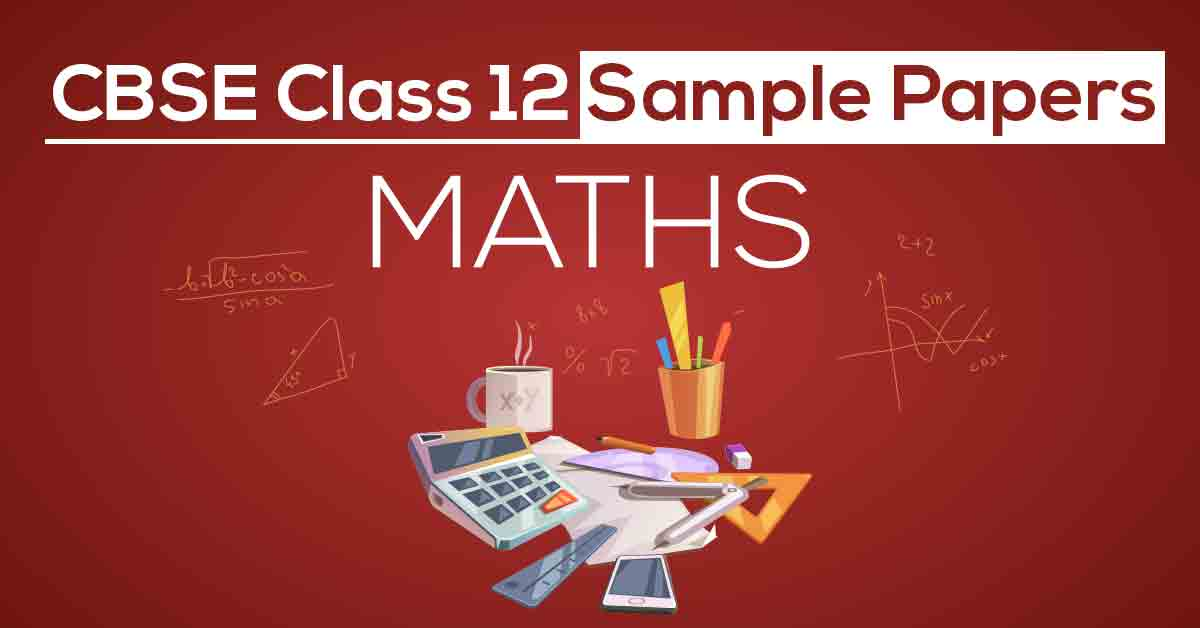
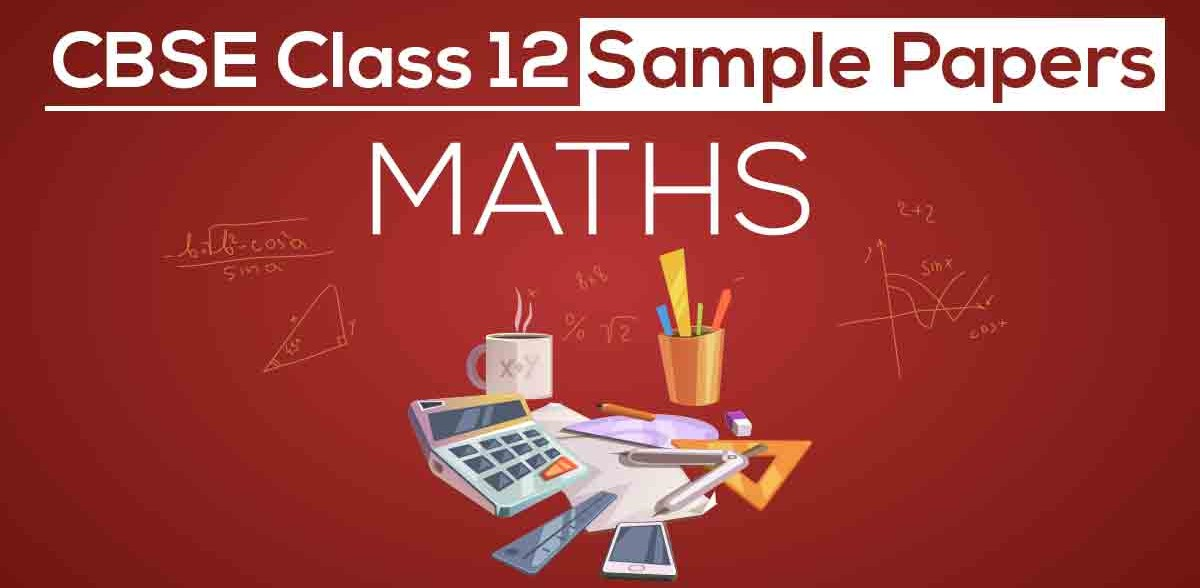
new updates

diff --git a/css/maths12.css b/css/maths12.css
@@ -5,7 +5,7 @@ body {
 }
 
 .full-page {
-  background-image: url(../img/maths_back.jpg);
+  background-image: url(../img/math_sample.jpg);
 
   padding-top: 70px;
   text-align: center;
